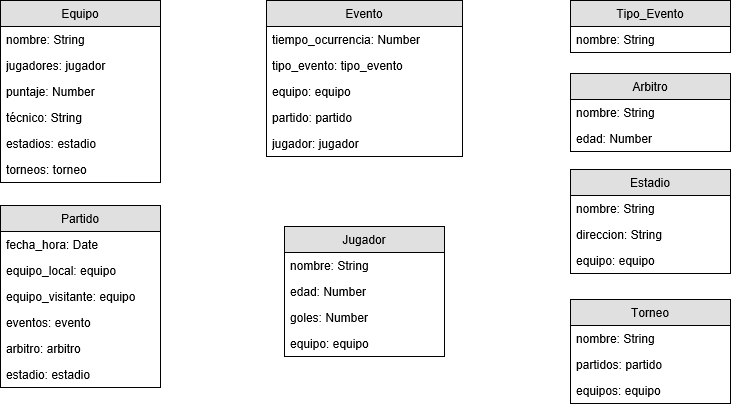
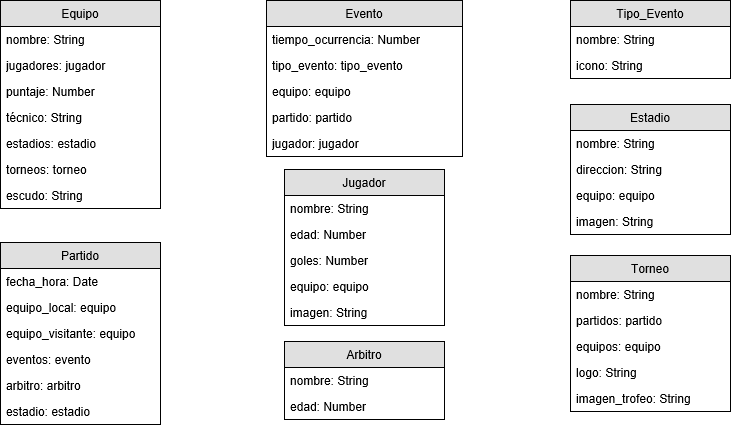
agregado de imagenes a la BD

diff --git a/Backend/models/equipo.js b/Backend/models/equipo.js
@@ -6,7 +6,8 @@ var equipoSchema= new mongoose.Schema({
   puntaje: {type: Number},
   tecnico: {type: String, required: true},
   estadios: [{type: mongoose.Schema.Types.ObjectId, ref: 'estadio'}],
-  torneos: [{type: mongoose.Schema.Types.ObjectId, ref: 'torneo'}]
+  torneos: [{type: mongoose.Schema.Types.ObjectId, ref: 'torneo'}],
+  escudo: {type: String}
 },);
 
 mongoose.model('equipo', equipoSchema);

diff --git a/Backend/models/estadio.js b/Backend/models/estadio.js
@@ -3,7 +3,8 @@ var mongoose =require('mongoose');
 var estadioSchema= new mongoose.Schema({
   nombre: {type: String, required: true, unique: true},
   direccion: {type: String},
-  equipo: {type: mongoose.Schema.Types.ObjectId, ref: 'equipo'}
+  equipo: {type: mongoose.Schema.Types.ObjectId, ref: 'equipo'},
+  imagen: {type: String}
 },);
 
 mongoose.model('estadio', estadioSchema);

diff --git a/Backend/models/jugador.js b/Backend/models/jugador.js
@@ -4,7 +4,8 @@ var jugadorSchema= new mongoose.Schema({
   nombre: {type: String, required: true, unique: true},
   edad: {type: Number},
   goles: {type: Number},
-  equipo: {type: mongoose.Schema.Types.ObjectId, ref: 'equipo'}
+  equipo: {type: mongoose.Schema.Types.ObjectId, ref: 'equipo'},
+  imagen: {type: String}
 },);
 
 mongoose.model('jugador', jugadorSchema);

diff --git a/Backend/models/torneo.js b/Backend/models/torneo.js
@@ -4,6 +4,8 @@ var torneoSchema= new mongoose.Schema({
   nombre: {type: String, required: true},
   partidos: [{type: mongoose.Schema.Types.ObjectId, ref: 'partido'}],
   equipos: [{type: mongoose.Schema.Types.ObjectId, ref: 'equipo'}],
+  logo: {type: String},
+  imagen_trofeo: {type:String}
 });
 
 mongoose.model('torneo', torneoSchema);

diff --git a/Backend/models/tipo_evento.js b/Backend/models/tipo_evento.js
@@ -2,6 +2,7 @@ var mongoose =require('mongoose');
 
 var tipo_eventoSchema= new mongoose.Schema({
   nombre: {type: String, required: true},
+  icono: {type: String}
 },);
 
 mongoose.model('tipo_evento', tipo_eventoSchema);
